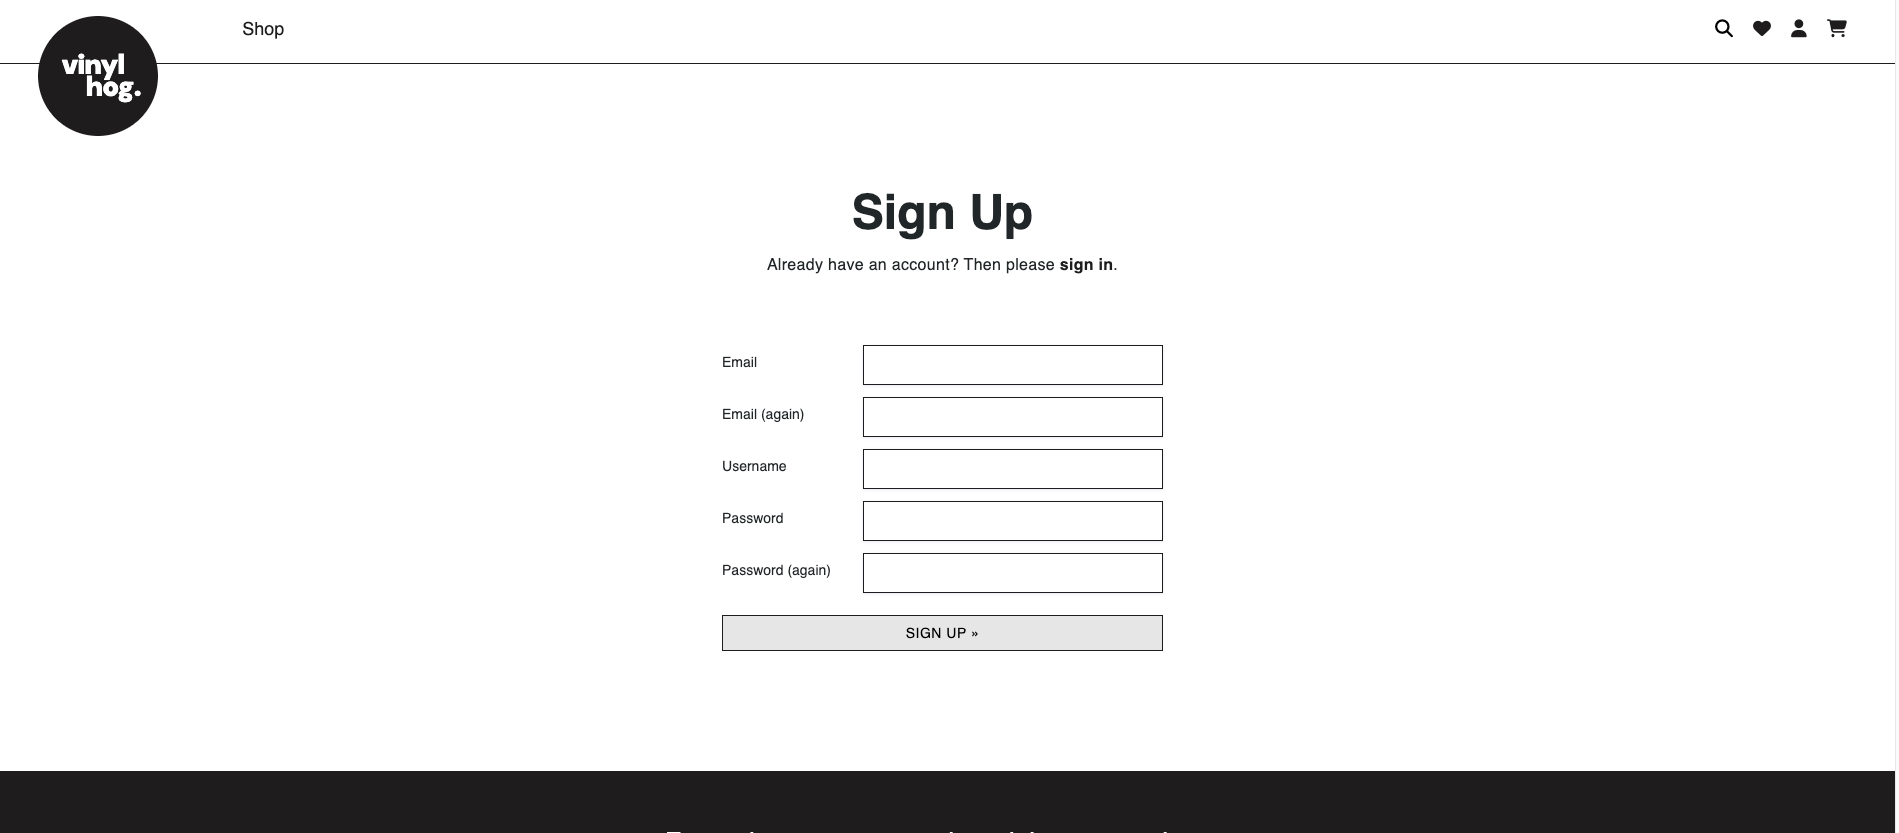
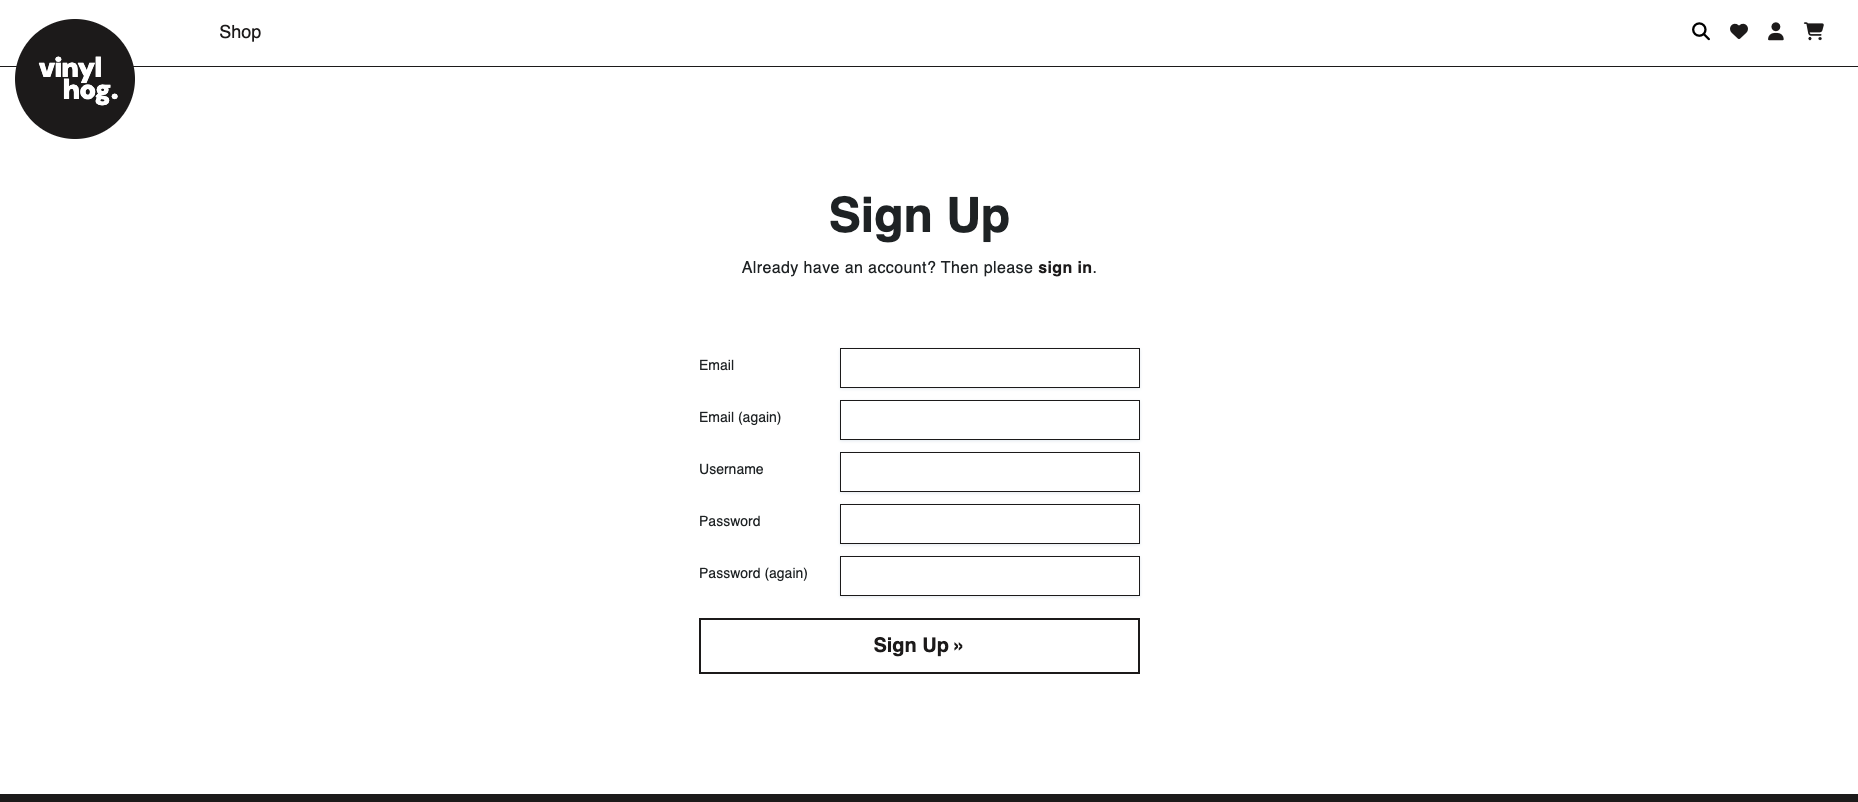
Reduce home page image sizes

diff --git a/home/templates/home/home.html b/home/templates/home/home.html
@@ -30,7 +30,7 @@
     <section class="section-about ">
         <div class="about-container">
             <div class="about-img-continer">
-                <img class="" src="{% static 'images/home_imgs/album-wall-min 2.png' %}" alt="">
+                <img class="" src="{% static 'images/home_imgs/about_img.jpg' %}" alt="">
             </div>
             <div class="about-text-container">
                 <p>
@@ -94,8 +94,8 @@
 
     <section class="section-sale">
         <div class="sale-img-container halftone">
-            <img class="" src="{% static 'images/home_imgs/gracejones_livingmylife_bue3 (1).jpg' %}" alt="Section sale image">
-            <img class="" src="{% static 'images/home_imgs/love_foreverchangescollec_c955.jpg' %}" alt="Section sale image">
+            <img class="" src="{% static 'images/home_imgs/gracejones_livingmylife.jpg' %}" alt="Section sale image">
+            <img class="" src="{% static 'images/home_imgs/foreverchanges.jpg' %}" alt="Section sale image">
         </div>
 
         <div class="sale-text-container">
@@ -167,22 +167,22 @@
             <h2 class="text-muted">Featured In</h2>
             <div class="logos-container">
                 <a href="https://pitchfork.com/" target="blank">
-                    <img class="featured-logo featured-logo--color" src="{% static 'images/home_imgs/featured_in/Pitchfork_Media_Logo.png' %}" alt="">
+                    <img class="featured-logo featured-logo--color" src="{% static 'images/home_imgs/featured_in/Pitchfork_Media_Logo.png' %}" alt="pitchfork logo">
                 </a>
                 <a href="https://ra.co/" target="blank">
-                    <img class="featured-logo-lg" src="{% static 'images/home_imgs/featured_in/ResidentAdvisor_logo.png' %}" alt="">
+                    <img class="featured-logo-lg" src="{% static 'images/home_imgs/featured_in/ResidentAdvisor_logo.png' %}" alt="ResidentAdvisor logo">
                 </a>
                 <a href="https://www.spin.com/" target="blank">
-                    <img class="featured-logo" src="{% static 'images/home_imgs/featured_in/Spin-logo.png' %}" alt="">
+                    <img class="featured-logo" src="{% static 'images/home_imgs/featured_in/Spin-logo.png' %}" alt="Spin website logo">
                 </a>
                 <a href="https://thevinylfactory.com/" target="blank">
-                    <img class="featured-logo-lg" src="{% static 'images/home_imgs/featured_in/The_Vinyl_Factory_Logo.png' %}" alt="">
+                    <img class="featured-logo-lg" src="{% static 'images/home_imgs/featured_in/The_Vinyl_Factory_Logo.png' %}" alt="The viny factory logo">
                 </a>
                 <a href="https://theplayground.co.uk/" target="blank">
-                    <img class="featured-logo-lg" src="{% static 'images/home_imgs/featured_in/Playground.jpg' %}" alt="">
+                    <img class="featured-logo-lg" src="{% static 'images/home_imgs/featured_in/Playground.jpg' %}" alt="The playground.co.uk logo">
                 </a>
                 <a href="https://www.billboard.com/" target="blank">
-                <img class="featured-logo" src="{% static 'images/home_imgs/featured_in/Billboard_logo.png' %}" alt="">
+                <img class="featured-logo" src="{% static 'images/home_imgs/featured_in/Billboard_logo.png' %}" alt="Billboard.com logo">
                 </a>
             </div>
         </div>

diff --git a/templates/account/login.html b/templates/account/login.html
@@ -24,7 +24,6 @@
                 <ul class="socialaccount_providers">
                 {% include "socialaccount/snippets/provider_list.html" with process="login" %}
                 </ul>
-
                 <div class="login-or">{% trans 'or' %}</div>
             </div>
 
@@ -56,10 +55,9 @@
 
             <!-- Submit button -->
             <div class="btn-container-center mt-5">
-                <button class="btn-explore" type="submit">{% trans "Sign In" %}</button>
+                <button class="btn-explore btn-explore--full-width" type="submit">{% trans "Sign In" %}</button>
             </div>
             
-
             <div class="forget-password-container mt-5">
             <a href="{% url 'account_reset_password' %}"><p class='section-text '>{% trans "Forgot Password?" %}</p></a>
             </div>

diff --git a/templates/account/password_reset.html b/templates/account/password_reset.html
@@ -35,9 +35,8 @@
 
                 <!-- Submit button -->
                 <div class="btn-container-center mt-5">
-                    <input  class="btn-explore" type="submit" value="{% trans 'Reset My Password' %}" />
+                    <input class="btn-explore btn-explore--full-width" type="submit" value="{% trans 'Reset My Password' %}" />
                 </div>
-               
             </form>
 
             <div class="forget-password-container">

diff --git a/templates/account/signup.html b/templates/account/signup.html
@@ -47,7 +47,7 @@
 
                 <!-- Submit button -->
                 <div class="btn-container">
-                    <button class="btn-custom mt-3" type="submit">{% trans "Sign Up" %} &raquo;</button>
+                    <button class="btn-explore btn-explore--full-width mt-3" type="submit">{% trans "Sign Up" %} &raquo;</button>
                 </div>
             </form>
         </div>

diff --git a/README.md b/README.md
@@ -173,77 +173,23 @@ This model is linked to the Order and Album models via ForeignKey and is created
 
 ## Features
 
-### Header and Navigation
+### 404 Error Page
 <details><br>
 
+A custom 404 page was implemented to handle and site errors.
+<br>
+
+![Screenshot user profile page](static/images/readme_imgs/screenshots/404.png)
+</details>
+
+### Header and Navigation
+<details><br>
 
 ![Screenshot of feature description](static/images/readme_imgs/features/header.png)
 ![Screenshot of navigation, logo and landing page](static/images/readme_imgs/screenshots/header.png)
 ![Screenshot of navigation, logo and landing page](static/images/readme_imgs/screenshots/header_icons.png)
 
 </details>
-
-### Landing Page
-<details><br>
-
-
-![Screenshot of feature description](static/images/readme_imgs/features/landing.png)
-![Screenshot of landing page](static/images/readme_imgs/screenshots/landing_page.png)
-![Screenshot of landing page](static/images/readme_imgs/screenshots/landing_sm.png)
-</details>
-
-
-
-### About Section
-<details><br>
-
- The about section consists of information about the company and its brand values.
- The image was created on Photoshop.
-
-![Screenshot of feature description](static/images/readme_imgs/features/about_section.png)
-![Screenshot of about section](static/images/readme_imgs/screenshots/about_section.png)
-![Screenshot of about section](static/images/readme_imgs/screenshots/about_section_sm.png)
-</details>
-
-### New Releases Section
-<details><br>
-
- As one scrolls down the home page we have the "New Releases" section. It displays the most recently added products.
-
-![Screenshot of feature description](static/images/readme_imgs/features/new_releases_section.png)
-![Screenshot of New Releases section](static/images/readme_imgs/screenshots/new_releases_section.png)
-</details>
-
-### Sale Section
-<details><br>
-
- As one scrolls down the home page we have the "Sale" section.
-
-![Screenshot of feature description](static/images/readme_imgs/features/sale_section.png)
-![Screenshot of New Releases section](static/images/readme_imgs/screenshots/sale_section.png)
-</details>
-
-### Reviews Section
-<details><br>
-
-This section displays the latest four review posts added. These are written by staff of the company and act as high quality content to serve the customer and further engagement.
-
-![Screenshot of feature description](static/images/readme_imgs/features/reviews_section.png)
-![Screenshot of Reviews section](static/images/readme_imgs/screenshots/home_reviews1.png)
-![Screenshot of Reviews section](static/images/readme_imgs/screenshots/home_reviews2.png)
-</details>
-
-
-### Featured In Section
-<details><br>
-
-This section displays publications and websites where the company has featured.
-
-![Screenshot of feature description](static/images/readme_imgs/features/featured_in_section.png)
-![Screenshot of Reviews section](static/images/readme_imgs/screenshots/featured_in.png)
-
-</details>
-
 
 ### Footer Section
 <details><br>
@@ -258,14 +204,61 @@ This section displays publications and websites where the company has featured.
 ![Screenshot of footer](static/images/readme_imgs/screenshots/footer_sm.png)
 </details>
 
-### Account Pages
+### Home - Landing Page
 <details><br>
 
-![Screenshot of feature description](static/images/readme_imgs/features/account.png)
-![Screenshot of navigation, logo and landing page](static/images/readme_imgs/screenshots/sign_in.png)
-![Screenshot of navigation, logo and landing page](static/images/readme_imgs/screenshots/sign_up.png)
-![Screenshot of navigation, logo and landing page](static/images/readme_imgs/screenshots/sign_out.png)
-![Screenshot of navigation, logo and landing page](static/images/readme_imgs/screenshots/password_reset.png)
+![Screenshot of feature description](static/images/readme_imgs/features/landing.png)
+![Screenshot of landing page](static/images/readme_imgs/screenshots/landing_page.png)
+![Screenshot of landing page](static/images/readme_imgs/screenshots/landing_sm.png)
+</details>
+
+### Home - About Section
+<details><br>
+
+ The about section consists of information about the company and its brand values.
+ The image was created on Photoshop.
+
+![Screenshot of feature description](static/images/readme_imgs/features/about_section.png)
+![Screenshot of about section](static/images/readme_imgs/screenshots/about_section.png)
+![Screenshot of about section](static/images/readme_imgs/screenshots/about_section_sm.png)
+</details>
+
+### Home - New Releases Section
+<details><br>
+
+ As one scrolls down the home page we have the "New Releases" section. It displays the most recently added products.
+
+![Screenshot of feature description](static/images/readme_imgs/features/new_releases_section.png)
+![Screenshot of New Releases section](static/images/readme_imgs/screenshots/new_releases_section.png)
+</details>
+
+### Home - Sale Section
+<details><br>
+
+ As one scrolls down the home page we have the "Sale" section.
+
+![Screenshot of feature description](static/images/readme_imgs/features/sale_section.png)
+![Screenshot of New Releases section](static/images/readme_imgs/screenshots/sale_section.png)
+</details>
+
+### Home - Reviews Section
+<details><br>
+
+This section displays the latest four review posts added. These are written by staff of the company and act as high quality content to serve the customer and further engagement.
+
+![Screenshot of feature description](static/images/readme_imgs/features/reviews_section.png)
+![Screenshot of Reviews section](static/images/readme_imgs/screenshots/home_reviews1.png)
+![Screenshot of Reviews section](static/images/readme_imgs/screenshots/home_reviews2.png)
+</details>
+
+### Home - Featured In Section
+<details><br>
+
+This section displays publications and websites where the company has featured.
+
+![Screenshot of feature description](static/images/readme_imgs/features/featured_in_section.png)
+![Screenshot of Reviews section](static/images/readme_imgs/screenshots/featured_in.png)
+
 </details>
 
 ### Products Page
@@ -292,6 +285,7 @@ SEO Features:
 ![Screenshot of product mobile screen size](static/images/readme_imgs/screenshots/product_sm.png)
 </details>
 
+
 ### Basket
 <details><br>
 
@@ -315,14 +309,25 @@ SEO Features:
 ![Screenshot of order details](static/images/readme_imgs/screenshots/order.png)
 </details><br>
 
+
+### Account Pages
+<details><br>
+
+![Screenshot of feature description](static/images/readme_imgs/features/account.png)
+![Screenshot of navigation, logo and landing page](static/images/readme_imgs/screenshots/sign_in.png)
+![Screenshot of navigation, logo and landing page](static/images/readme_imgs/screenshots/sign_up.png)
+![Screenshot of navigation, logo and landing page](static/images/readme_imgs/screenshots/sign_out.png)
+![Screenshot of navigation, logo and landing page](static/images/readme_imgs/screenshots/password_reset.png)
+</details>
+
+
+
 ### User Profile
 <details><br>
 
 ![Screenshot of feature description](static/images/readme_imgs/features/profile.png)
 ![Screenshot user profile page](static/images/readme_imgs/screenshots/profile_page.png)
 </details>
-
-
 
 ### Wishlist
 <details><br>
@@ -338,7 +343,6 @@ SEO Features:
 ![Screenshot of product management pages](static/images/readme_imgs/screenshots/post.png)
 </details>
 
-
 ### Product Management Pages
 <details><br>
 
@@ -348,14 +352,7 @@ SEO Features:
 ![Screenshot of product management pages](static/images/readme_imgs/screenshots/product_add.png)
 </details>
 
-### 404 Error Page
-<details><br>
 
-A custom 404 page was implemented to handle and site errors.
-<br>
-
-![Screenshot user profile page](static/images/readme_imgs/screenshots/404.png)
-</details>
 
 
 
@@ -540,6 +537,9 @@ Another bug was that the toast messages did not close if one clicked on a naviga
 <br>
 
 ### Design/Content Tools
+- [Photoshop](https://www.adobe.com/ie/products/photoshop/landpa.html?gclid=Cj0KCQjwv7O0BhDwARIsAC0sjWPeCgU6FYu-ZKvAz6ymBFOviEoL8DOfkS6vavhnk9qIoopU-Tmp3OsaAlnyEALw_wcB&mv=search&mv=search&mv2=paidsearch&sdid=2XBSBWBF&ef_id=Cj0KCQjwv7O0BhDwARIsAC0sjWPeCgU6FYu-ZKvAz6ymBFOviEoL8DOfkS6vavhnk9qIoopU-Tmp3OsaAlnyEALw_wcB:G:s&s_kwcid=AL!3085!3!520877428951!e!!g!!photoshop!1423511192!58810496314&gad_source=1)
+    - Used to make image on the about section.
+
 - [Google Fonts](https://fonts.google.com/)
     - Used to obtain the fonts used.
 - [Font Awesome](https://fontawesome.com/)
@@ -587,8 +587,7 @@ Another bug was that the toast messages did not close if one clicked on a naviga
 - [Lighthouse](https://developer.chrome.com/docs/lighthouse)
     - Used to audit for performance & accessibility.
 
-- [Photoshop](https://www.adobe.com/ie/products/photoshop/landpa.html?gclid=Cj0KCQjwv7O0BhDwARIsAC0sjWPeCgU6FYu-ZKvAz6ymBFOviEoL8DOfkS6vavhnk9qIoopU-Tmp3OsaAlnyEALw_wcB&mv=search&mv=search&mv2=paidsearch&sdid=2XBSBWBF&ef_id=Cj0KCQjwv7O0BhDwARIsAC0sjWPeCgU6FYu-ZKvAz6ymBFOviEoL8DOfkS6vavhnk9qIoopU-Tmp3OsaAlnyEALw_wcB:G:s&s_kwcid=AL!3085!3!520877428951!e!!g!!photoshop!1423511192!58810496314&gad_source=1)
-    - Used to make image on the about section.
+
 
 
 
